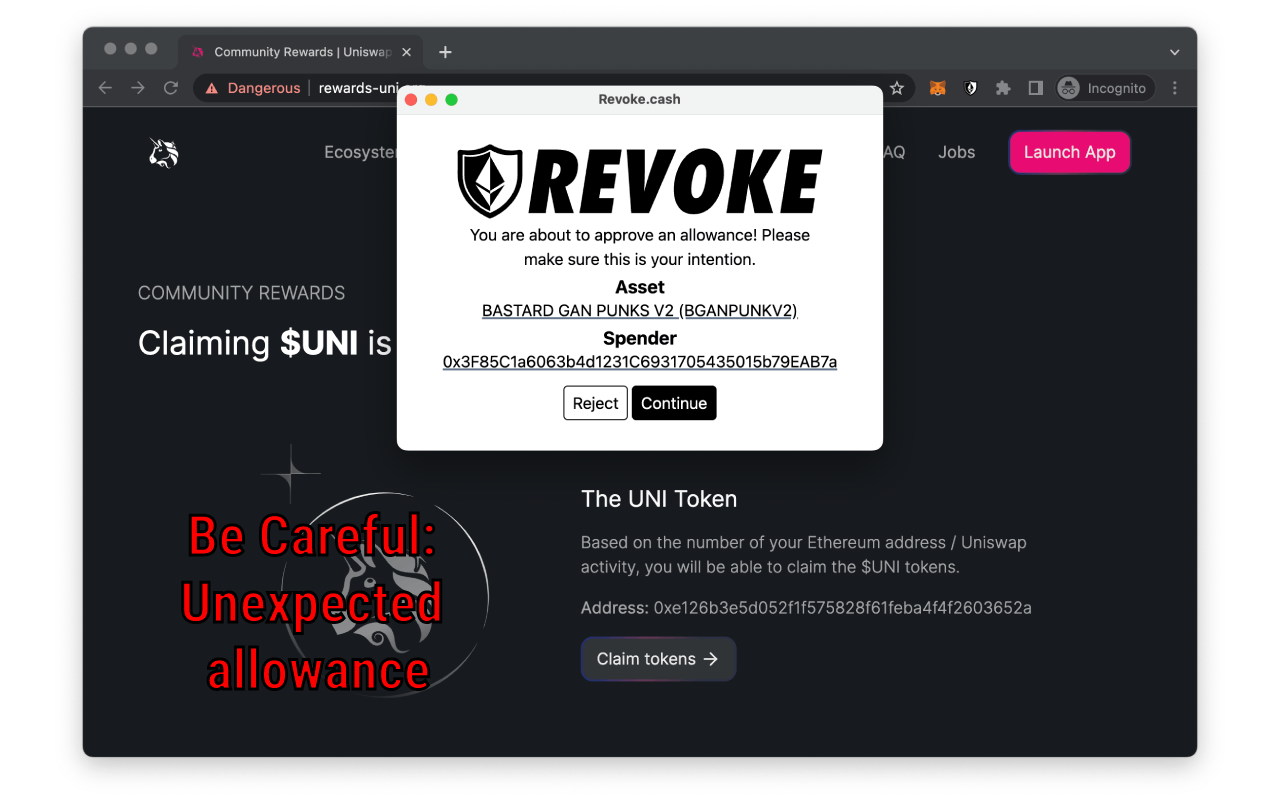
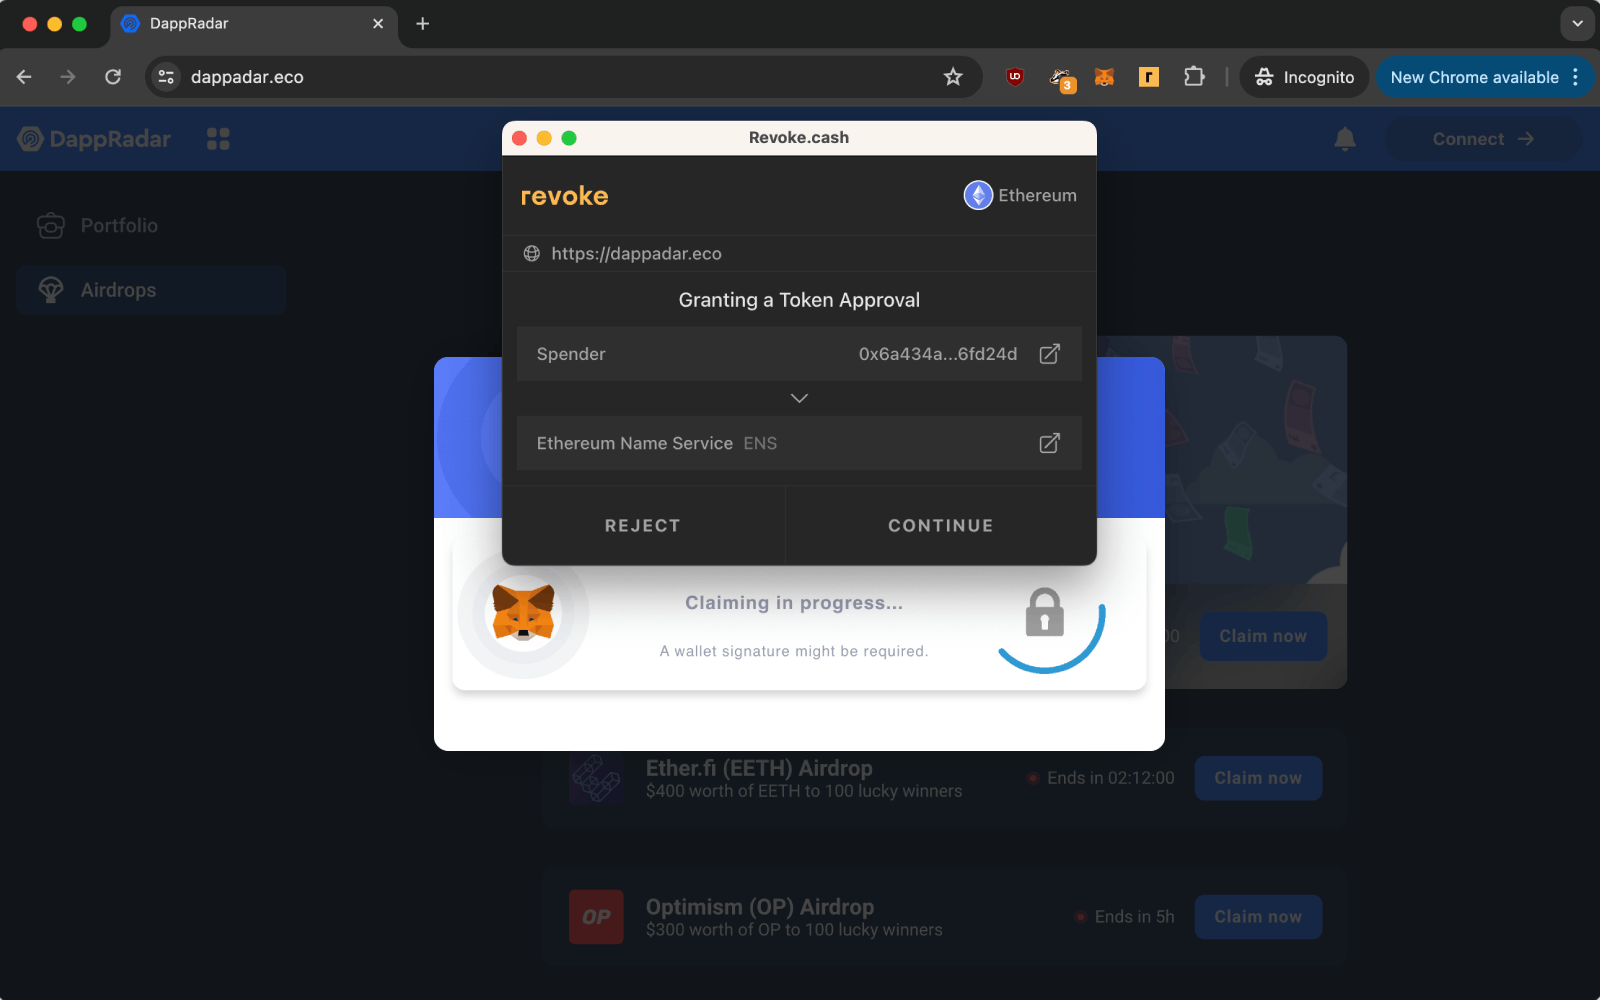
Update browser extension screenshots

diff --git a/app/[locale]/extension/page.tsx b/app/[locale]/extension/page.tsx
@@ -38,31 +38,25 @@ const ExtensionPage: NextPage<Props> = ({ params }) => {
 
       <p>{t('extension.paragraph_2')}</p>
 
-      <p className="mx-auto not-prose">
-        <Image
-          src="/assets/images/extension/screenshot-1.png"
-          alt="Extension: Unexpected Allowance"
-          height="800"
-          width="1280"
-          priority
-          fetchPriority="high"
-          className="w-full"
-        />
-      </p>
+      <Image
+        src="/assets/images/extension/screenshot-1.png"
+        alt="Extension: Token Approval"
+        height="1000"
+        width="1600"
+        priority
+        fetchPriority="high"
+      />
 
       <p>{t('extension.paragraph_3')}</p>
 
       <p>{t('extension.paragraph_4')}</p>
 
-      <p className="mx-auto not-prose">
-        <Image
-          src="/assets/images/extension/screenshot-3.png"
-          alt="Extension: Unexpected Listing"
-          height="800"
-          width="1280"
-          className="w-full"
-        />
-      </p>
+      <Image
+        src="/assets/images/extension/screenshot-2.png"
+        alt="Extension: Marketplace Listing"
+        height="1000"
+        width="1600"
+      />
 
       <p>{t('extension.paragraph_5')}</p>
 

diff --git a/lib/utils/chains.ts b/lib/utils/chains.ts
@@ -2290,11 +2290,11 @@ export const isNodeSupportedChain = (chainId: number): boolean => {
 export const isMainnetChain = (chainId: number): boolean => CHAIN_SELECT_MAINNETS.includes(chainId);
 export const isTestnetChain = (chainId: number): boolean => CHAIN_SELECT_TESTNETS.includes(chainId);
 
-export const getChainName = (chainId: number): string => {
+export const getChainName = (chainId: number): string | undefined => {
   return getChainConfig(chainId)?.getName();
 };
 
-export const getChainSlug = (chainId: number): string => {
+export const getChainSlug = (chainId: number): string | undefined => {
   return getChainConfig(chainId)?.getSlug();
 };
 
@@ -2327,7 +2327,7 @@ export const getChainLogsRpcUrl = (chainId: number): string | undefined => {
   return getChainConfig(chainId)?.getLogsRpcUrl();
 };
 
-export const getChainLogo = (chainId: number): string => {
+export const getChainLogo = (chainId: number): string | undefined => {
   return getChainConfig(chainId)?.getLogoUrl();
 };
 

diff --git a/app/[locale]/about/page.tsx b/app/[locale]/about/page.tsx
@@ -41,7 +41,7 @@ const AboutPage: NextPage<Props> = ({ params }) => {
             alt="Initial Revoke.cash Tweet"
             height="1000"
             width="1500"
-            className="rounded-2xl border border-black dark:border-white"
+            className="rounded-lg border border-black dark:border-white"
             priority
             fetchPriority="high"
           />
@@ -59,7 +59,7 @@ const AboutPage: NextPage<Props> = ({ params }) => {
           alt="Revoke.cash Team"
           height="720"
           width="1280"
-          className="rounded-2xl border border-black dark:border-white"
+          className="rounded-lg border border-black dark:border-white"
         />
         <figcaption className="text-base leading-none text-zinc-600 dark:text-zinc-400">
           {t('about.captions.team')}
